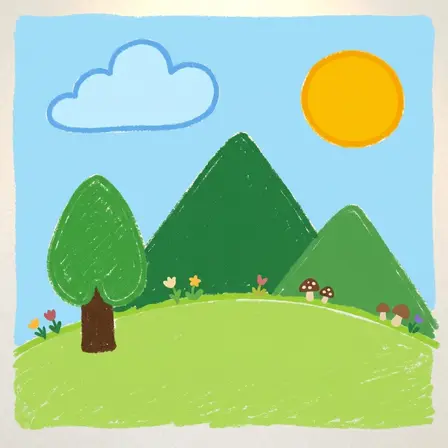
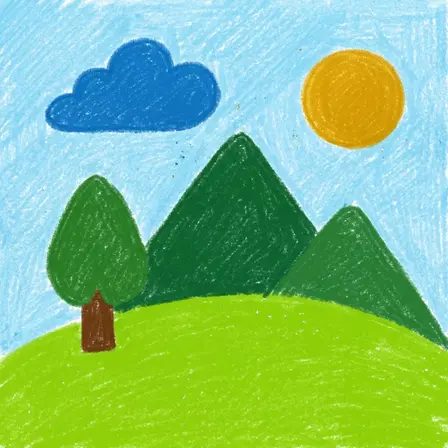
Fill the frame on the crayon, watercolor, and felt covers
Those three style covers shipped with a paper margin baked into the
pixels — a pale matte the model framed the scene on, glaring against a
dark ground and wrong on a light one too. Paper and Clay never had it
because their suffixes already end in an explicit "fill the whole frame
edge to edge" clause; the other three simply never got one.

Give each of the three the same clause, worded for its own medium, and
regenerate against gemini-3.1-flash-image. Crayon needed the strongest
wording: naming the paper at all invited the model to leave it bare —
it dropped the sky entirely on the first roll — so its clause is about
covering the sheet in wax rather than about where the paper ends.

Measuring the outer 5px ring for pale desaturated pixels, crayon goes
0.73 -> 0.00 and watercolor 0.97 -> 0.00. Felt's matte was a dark strip
that ring test never scored, and it is gone on inspection. Paper (0.61),
Cartoon (0.63), and Sticker (1.00) still score high and are meant to:
their scene backgrounds are genuinely cream, and Sticker's white die-cut
border is the style.

The suffixes are shared with /api/generate-image, so this changes what
players get back as well as the covers advertising it — intended, the
matte was never wanted there either.

Claude-Session: https://claude.ai/code/session_01P9hTwnrPkQuZTq96qDAX8i

diff --git a/web/src/lib/ai/styles.ts b/web/src/lib/ai/styles.ts
@@ -6,12 +6,12 @@ export const STYLE_SUFFIXES = {
   Magical:
     'Add a gentle storybook enchantment: a few soft golden sparkles drifting through the air, a subtle warm glow around the main characters, and dreamy, inviting light across the scene.',
   Crayon:
-    'Render the final image as a vibrant crayon drawing on lightly textured paper with playful wax strokes.',
+    'Render the final image as a vibrant crayon drawing on lightly textured paper with playful wax strokes. Cover the entire sheet with wax: every area, the sky and ground included, is crayoned in solid color running right off all four edges, leaving no bare paper margin, border, or matte anywhere in the frame.',
   Watercolor:
-    'Render the final image as a soft watercolor painting with gentle washes and bleeding edges.',
+    'Render the final image as a soft watercolor painting with gentle washes and bleeding edges. The painting fills the whole frame edge to edge, with the washes running off all four edges and no dry paper margin, border, or matte around them.',
   Paper:
     'Render the final image as a handmade layered paper-craft collage photographed from above: cut each element from thick, textured construction paper with soft rounded edges and lay it on a warm off-white textured-paper background, with soft natural drop shadows between the layers for a tactile, three-dimensional feel. Use no drawn outlines; the shapes are defined only by the paper color and the gentle shadows where the layers overlap. Fill the whole frame edge to edge, with no surrounding border or matte.',
-  Felt: 'Render the final image as a handmade felt craft scene, with fuzzy 3D fabric textures and stitched details.',
+  Felt: 'Render the final image as a handmade felt craft scene, with fuzzy 3D fabric textures and stitched details. The felt fills the whole frame edge to edge, running off all four edges, with no surrounding border, hoop, table, or backdrop visible.',
   Sticker:
     'Render the final image as a bold sticker illustration with thick outlines, solid colors, and a white die-cut border, sitting on a plain white background with a soft drop shadow beneath it so it looks like a sticker peeling off the page.',
   Cartoon:
